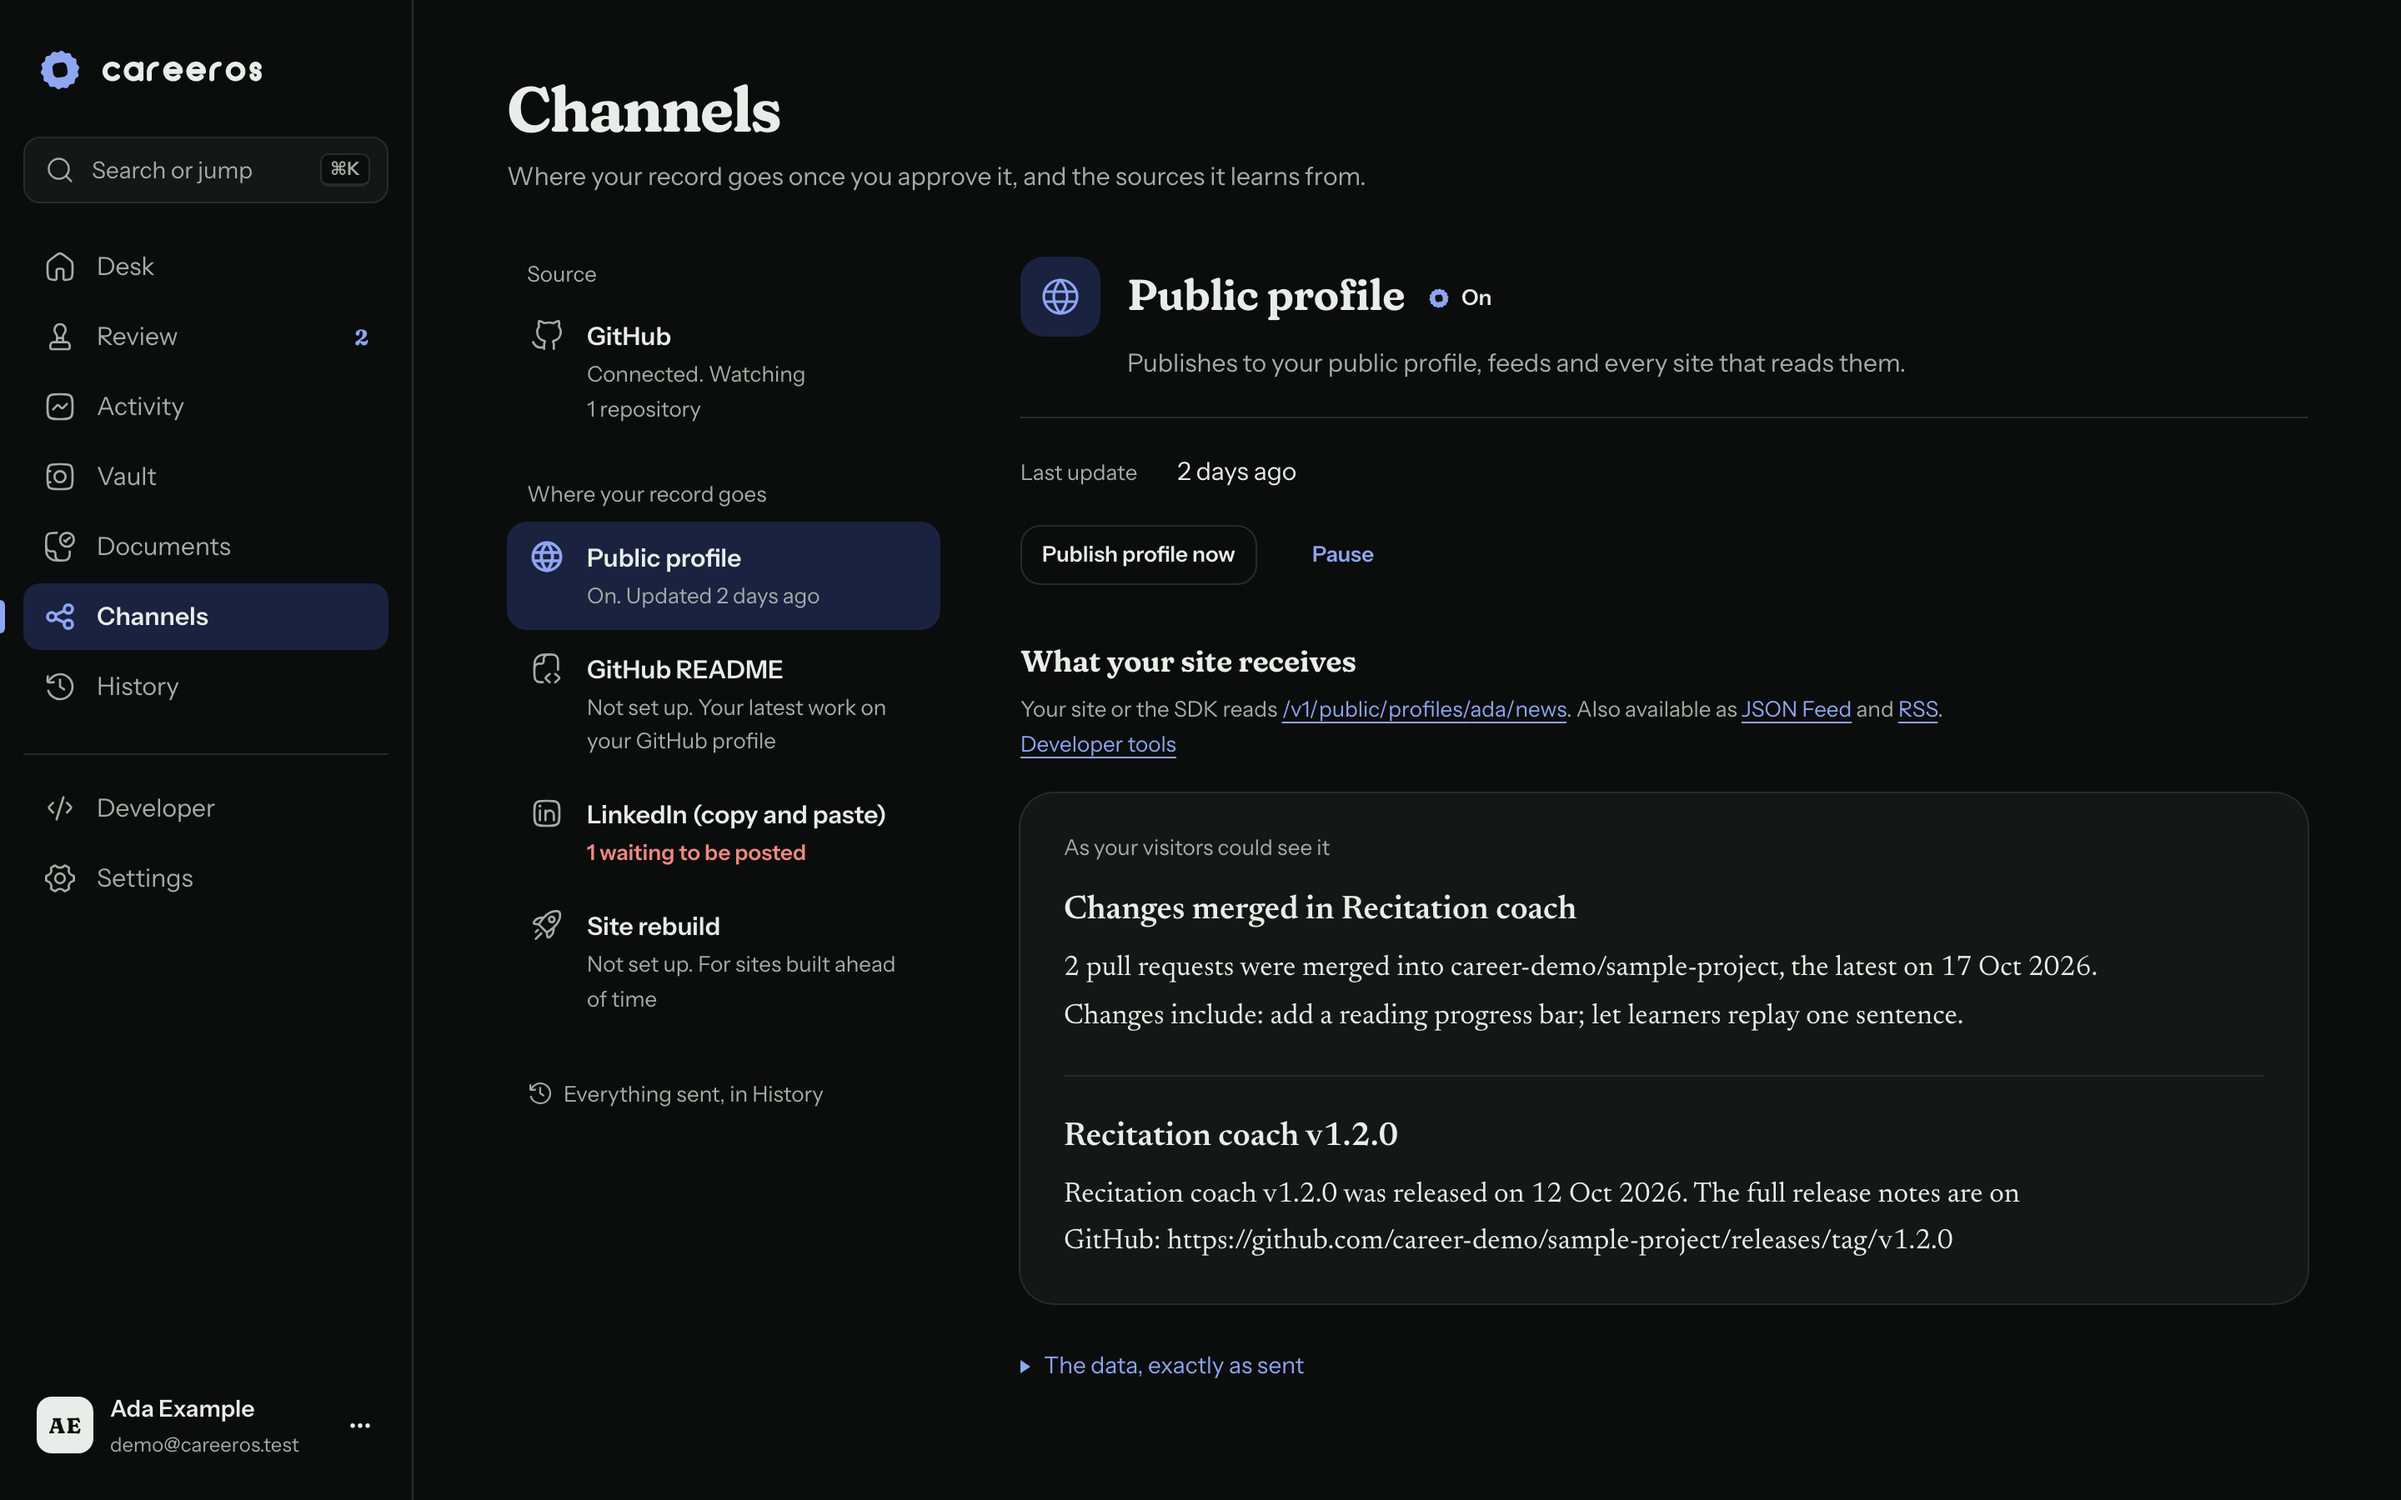
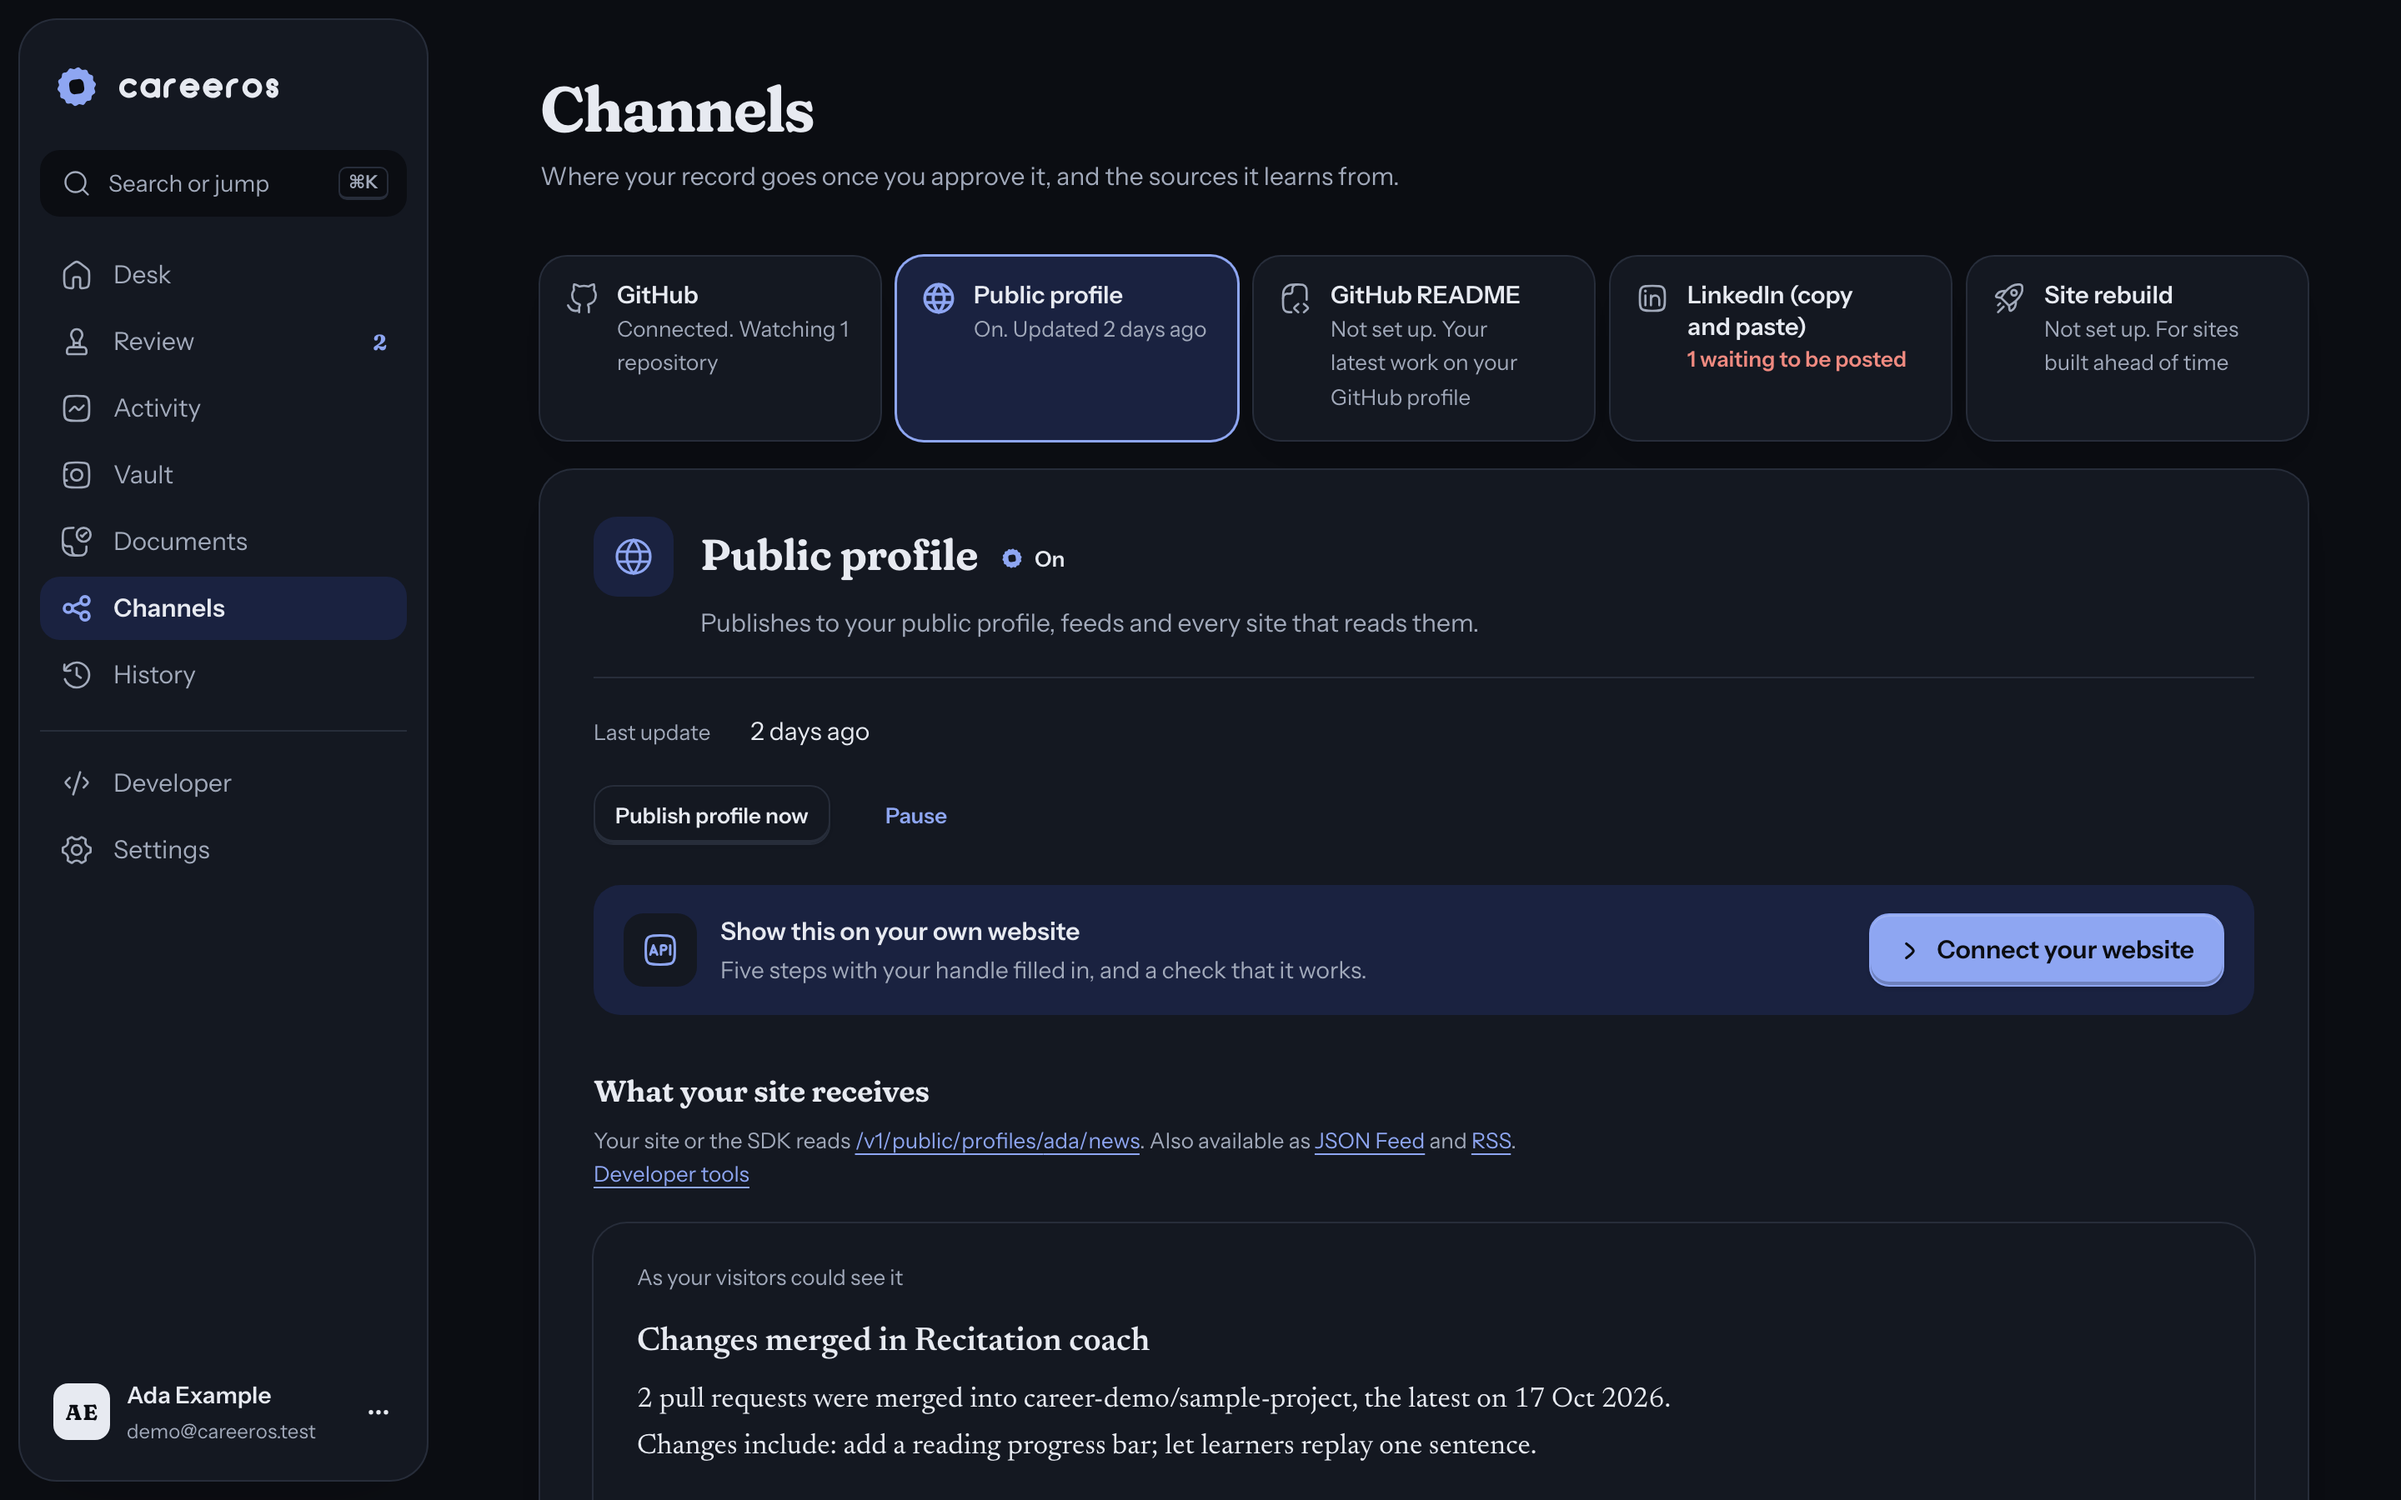
Fresh captures: one sidebar, decision dock, cool palette, LinkedIn card kit, phones

diff --git a/README.md b/README.md
@@ -1,100 +1,125 @@
-# CareerOS
+<picture>
+  <source media="(prefers-color-scheme: dark)" srcset="media/banner-dark.png">
+  <img alt="CareerOS. Your work, on the record. An evidence-first career record: it drafts only what your work can prove, and publishes only what you approve." src="media/banner-light.png">
+</picture>
 
-**Your work, on the record.** CareerOS is an evidence-first career record. It notices when you ship
-(a GitHub release, a merged pull request), drafts your résumé line, site news, README line and LinkedIn
-text **only from claims it can back with evidence**, and publishes nothing until you approve it.
+<br>
 
-> This repository is the public showcase: screenshots, the design and the honest status. The source code
-> lives in a private repository.
+CareerOS notices when you ship. It drafts your résumé line, site news, GitHub README line and
+LinkedIn caption **only from facts it can show**, keeps every line beside its proof, and
+publishes nothing until you approve it.
 
-![The review screen: drafts on the left, the proof behind them on the right](screenshots/review-detail.png)
+<picture>
+  <source media="(prefers-color-scheme: dark)" srcset="media/hero-dark.png">
+  <img alt="The review screen on a laptop and a phone: drafts for each place on the left, the claims and evidence behind them on the right, and a bar to approve, snooze or dismiss." src="media/hero-light.png">
+</picture>
 
-## Status (October 2026)
+> Every image here is a screenshot of the real app, signed in to a demo account with fictional
+> people and work. The images follow your GitHub theme, the way the app follows your system.
 
-| | |
-|---|---|
-| Web app | Built and working **locally** (Next.js 16, PostgreSQL). **Not deployed**: there is no public instance yet. |
-| Tests | 431 automated tests pass (unit and integration against a real PostgreSQL database), plus an evaluation suite for the publishing gates. |
-| Mobile app (Flutter) | **Not built yet.** The app API, design tokens and screen spec are ready for it. |
-| GitHub integration | Implemented and tested with signed webhook fixtures; the GitHub App itself is not registered yet. |
-| AI drafting | Works with a provider key; without one, it falls back to templates. Either way, every draft passes the same code-based gates. |
-| Name | "CareerOS" is a working name. |
+### It notices, and says why
 
-Everything in the screenshots is the real app running against a seeded demo account ("Ada Example"); the
-people, repositories and work in it are fictional.
+A release or a merged pull request arrives and lands in your queue with the reason it is there.
+The top three are *Start here*: what matters most, while the details are fresh, and quickest to
+decide. No scores, no streaks.
 
-## What it does
+<picture>
+  <source media="(prefers-color-scheme: dark)" srcset="media/notices-dark.png">
+  <img alt="Start here: two releases, each with the reason it is first, how long it takes to decide, and the places a draft is ready for." src="media/notices-light.png">
+</picture>
 
-- **Vault.** Your profile, projects, experience, education, achievements, skills, certifications and
-  evidence in one place, every change versioned.
-- **Sources.** GitHub releases and merged pull requests arrive in Activity, each with a plain reason why
-  it was or was not suggested. Nothing publishes because a webhook arrived.
-- **Review.** Each suggestion shows what happened, the claims behind it (verified, needs your
-  confirmation, out of date), the evidence, and a draft per channel. You confirm claims, edit wording,
-  choose channels and approve. Unconfirmed claims cannot be published.
-- **Gates, in code, not prompts.** Numbers, attribution, citations, privacy, links, length and style are
-  checked before anything can be approved. The AI may never invent a metric, a role or an outcome.
-- **Publishing.** Your public profile and news feed (JSON, JSON Feed, RSS) for your own website through a
-  public API and SDK, a managed block in your GitHub profile README, and LinkedIn text you copy and post
-  yourself (LinkedIn offers no API for this, and CareerOS never scrapes it). Deleting a record retracts
-  what it published.
-- **Recommendations you can see the reasons for.** The queue is ranked by significance, freshness, effort
-  and momentum, with the top three as "Start here", each with its reasons. Scores are never shown. Your
-  past decisions tune it.
-- **For developers.** Scoped API keys, signed outbound webhooks and an OpenAPI reference.
+### Every line keeps its receipts
 
-## Screens
+Each draft cites the facts it rests on. Seven checks in code (numbers, attribution, citations,
+privacy, links, length, style) run before you see it, and anything the AI inferred stays marked
+until you confirm it. An evaluation suite of real and adversarial cases runs on every change.
 
-| | |
-|---|---|
-| ![Landing page](screenshots/landing.png) | ![Desk](screenshots/desk.png) |
-| **Landing.** One promise, one example with its proof; the seal stamps "Approved by you". | **Desk.** What to do next, ranked, with the reason for each. |
-| ![Review queue](screenshots/review-queue.png) | ![Activity](screenshots/activity.png) |
-| **Review queue.** Rank, one plain reason, effort, and which channels have drafts. | **Activity.** Everything GitHub reported, and why it was or was not suggested. |
-| ![Channels](screenshots/channels.png) | ![Public profile channel](screenshots/channels-site.png) |
-| **Channels.** Every destination with where it stands; opens on what needs you. | **Your site.** What visitors would see, and the exact data your site receives. |
-| ![Vault](screenshots/vault.png) | ![History](screenshots/history.png) |
-| **Vault.** Your record by kind; each item knows what still needs you. | **History.** Every edit, decision, publication and permission. |
+<picture>
+  <source media="(prefers-color-scheme: dark)" srcset="media/receipts-dark.png">
+  <img alt="A résumé line draft with its Include switch and passed checks, beside the claims that support it: one verified from GitHub, others waiting for confirmation." src="media/receipts-light.png">
+</picture>
 
-### Dark mode
+### Ready for LinkedIn, posted by you
 
-| | |
-|---|---|
-| ![Review in dark mode](screenshots/review-detail-dark.png) | ![Desk in dark mode](screenshots/desk-dark.png) |
+LinkedIn doesn't let apps post for you, and CareerOS never scrapes it. Approve LinkedIn text and
+you get the caption plus a card image made only from the facts that post cites: copy, save,
+post, mark it posted.
 
-### Phone
+<picture>
+  <source media="(prefers-color-scheme: dark)" srcset="media/linkedin-dark.png">
+  <img alt="The LinkedIn hand-off: the caption, four numbered steps, and a generated card showing the achievement, its project and the facts behind it." src="media/linkedin-light.png">
+</picture>
 
-| | | | |
-|---|---|---|---|
-| ![Desk on a phone](screenshots/phone-desk-light.png) | ![Review on a phone](screenshots/phone-review-light.png) | ![Desk on a phone, dark](screenshots/phone-desk-dark.png) | ![Review on a phone, dark](screenshots/phone-review-dark.png) |
+### One record, every place it goes
 
-## Design
+Your website reads your approved news, projects and profile through a public API, feeds and a
+web component, so a portfolio keeps itself up to date. Your GitHub profile README gets a short
+block between two markers. Résumés export as PDF, Word and JSON Resume. Each place says whether
+it updates by itself or waits for you.
 
-- **Idea:** a record with receipts. Every published line sits beside the proof it rests on.
-- **Logo:** a seal, the stamp you press when you approve, with the app's proof mark at its centre, and
-  lowercase lettering drawn on the same round grid.
-- **Type:** Fraunces with soft corners for headings, Instrument Sans for the interface, Newsreader for
-  the words you will publish.
-- **Icons:** Hugeicons Stroke Rounded, the same set planned for the mobile app.
-- **Shape and motion:** soft radii (12 for controls, 20 for cards, 24 for sheets); the seal's stamp and
-  the proof mark's press are the only signature motions; reduced motion is respected.
-- **Status in words, not dots:** "Needs you", "Watching", "In review".
-- **Accessibility:** keyboard-first, visible focus, 44 px targets, contrast checked by tests in both
-  themes.
+<picture>
+  <source media="(prefers-color-scheme: dark)" srcset="media/channels-dark.png">
+  <img alt="Channels: an index of GitHub, the public profile, the README, LinkedIn and site rebuilds, beside the public profile with exactly what a visitor's site receives." src="media/channels-light.png">
+</picture>
+
+### Made for the phone as well
+
+Each screen changes shape on a small display instead of shrinking: one column, the decision in
+reach above the tab bar, the detail one tap away.
+
+<picture>
+  <source media="(prefers-color-scheme: dark)" srcset="media/phones-dark.png">
+  <img alt="Three phones: the Desk with what to start on, a review with its approve bar, and Channels with the LinkedIn hand-off." src="media/phones-light.png">
+</picture>
 
 ## How it is built
 
-| Layer | Choice |
+| | |
 |---|---|
-| Web | Next.js 16 (App Router), React 19, server actions; no client secrets |
-| Data | PostgreSQL 17, Drizzle ORM, versioned records and an append-only history |
-| Auth | Better Auth (email and password, GitHub), bearer tokens for the mobile app |
+| Web | Next.js 16 (App Router) and React 19, server actions, a strict nonce-based Content Security Policy |
+| Data | PostgreSQL 17 with Drizzle; every record versioned, every change in an append-only history |
 | Jobs | A Postgres-backed worker with leases, retries and dead letters |
-| AI | Provider-agnostic drafting behind deterministic gates, with an evaluation suite |
-| Public API | Read-only, published items only, with a TypeScript SDK and a web component |
-| Tests | Vitest (unit and integration against a real database) |
+| AI | Any provider or none (templates). Publishing rules are code, never prompts, with an evaluation suite in CI |
+| Public API | Read-only and approved items only; JSON, JSON Feed, RSS, a TypeScript SDK and a web component |
+| Quality | Unit and integration tests on a real database, Playwright journeys with axe accessibility checks, a Docker compose smoke test, all in CI |
+| Design | Fraunces, Instrument Sans and Newsreader; Hugeicons; a seal for a logo; light and deep dark themes from one set of tokens |
+
+## Status
+
+| | |
+|---|---|
+| Web app | Built and running locally. **Not deployed**: there is no public instance yet. |
+| Mobile app | Not built yet; the app API, tokens and screen spec are ready for it. |
+| GitHub | Integration built and tested with signed webhook fixtures; the GitHub App itself is not registered yet. |
+| Name | "CareerOS" is a working name. |
+
+The source code is private.
+
+<details>
+<summary><strong>Every screen, light and dark</strong></summary>
+
+<br>
+
+| Light | Dark |
+|---|---|
+| ![Landing page](screenshots/landing.png) | ![Landing page, dark](screenshots/landing-dark.png) |
+| ![Desk](screenshots/desk.png) | ![Desk, dark](screenshots/desk-dark.png) |
+| ![Review queue](screenshots/review-queue.png) | ![Review queue, dark](screenshots/review-queue-dark.png) |
+| ![Review](screenshots/review-detail.png) | ![Review, dark](screenshots/review-detail-dark.png) |
+| ![Activity](screenshots/activity.png) | ![Activity, dark](screenshots/activity-dark.png) |
+| ![Vault](screenshots/vault.png) | ![Vault, dark](screenshots/vault-dark.png) |
+| ![Channels](screenshots/channels.png) | ![Channels, dark](screenshots/channels-dark.png) |
+| ![Public profile channel](screenshots/channels-site.png) | ![Public profile channel, dark](screenshots/channels-site-dark.png) |
+| ![History](screenshots/history.png) | ![History, dark](screenshots/history-dark.png) |
+
+| Phone | | |
+|---|---|---|
+| ![Desk on a phone](screenshots/phone-desk-light.png) | ![Review on a phone](screenshots/phone-review-light.png) | ![Channels on a phone](screenshots/phone-channels-light.png) |
+| ![Desk on a phone, dark](screenshots/phone-desk-dark.png) | ![Review on a phone, dark](screenshots/phone-review-dark.png) | ![Channels on a phone, dark](screenshots/phone-channels-dark.png) |
+
+</details>
 
 ## Licence
 
-The contents of this showcase repository (this README and the screenshots) are released under the MIT
-licence. The CareerOS source code is private and is not covered by it.
+This README and its images are released under the [MIT licence](LICENSE). The CareerOS source
+code is private and is not covered by it.
